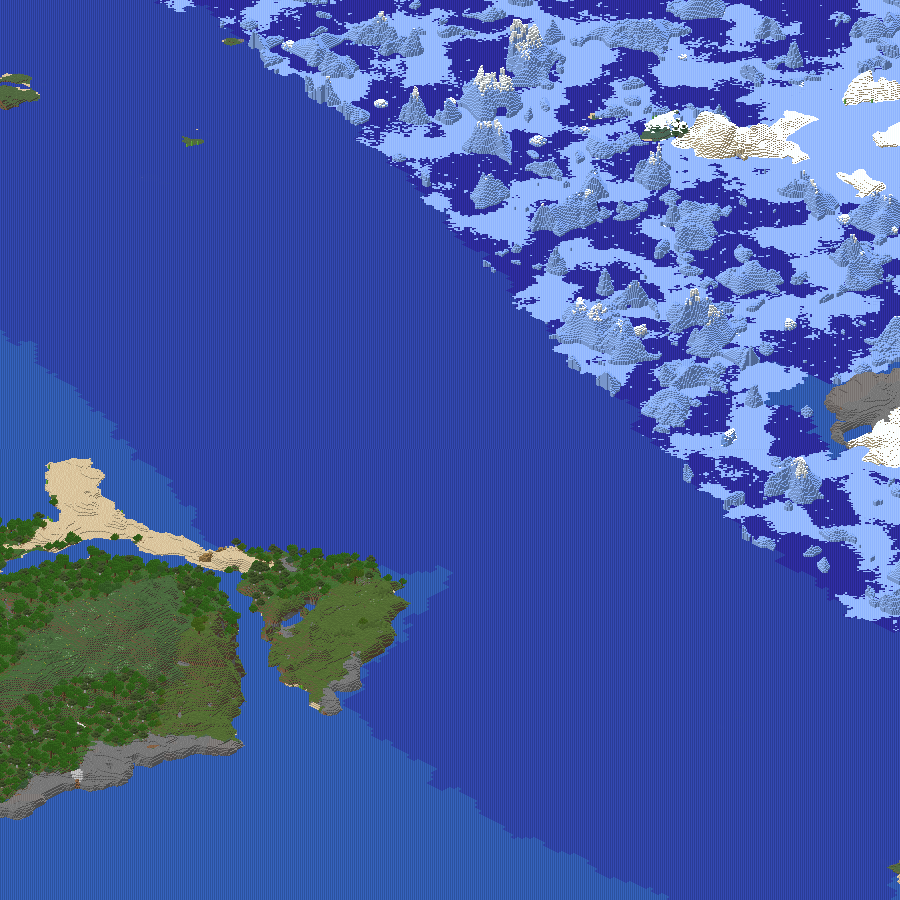
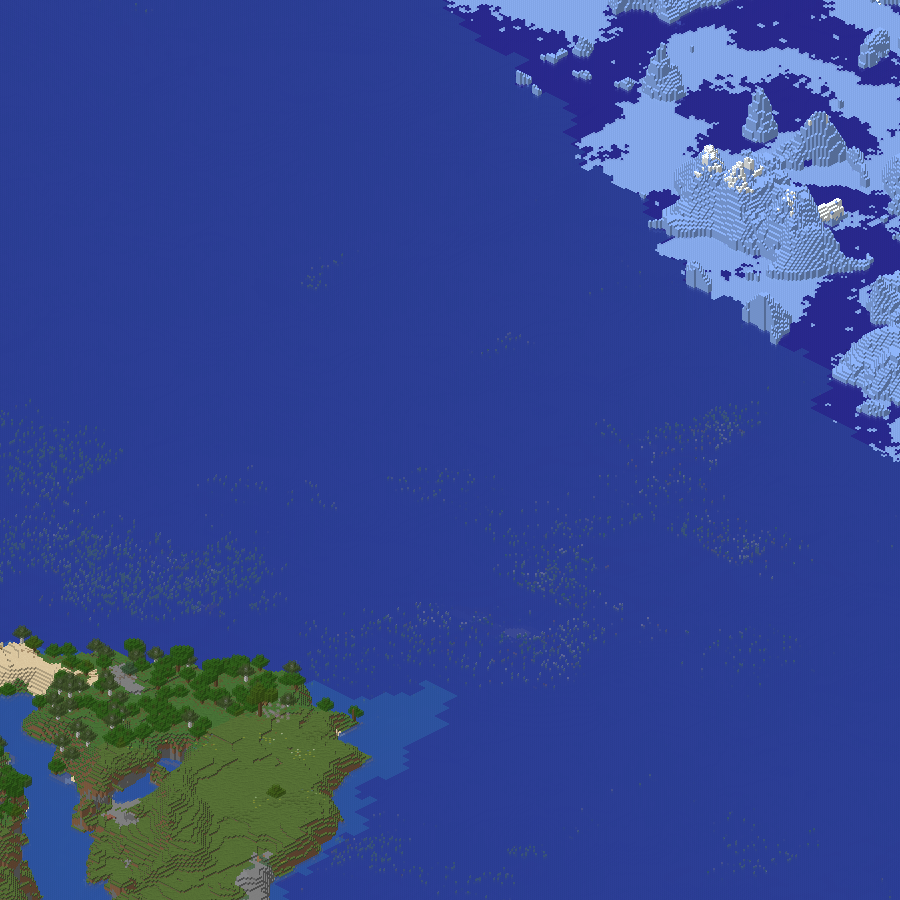
README und Bilder auf den Stand der Fixes
- Wasser endet bei 8/9, Tiefe entlang des Blickstrahls, Mischen ueber
  Fragmente je Pixel, Fuellregel und lineares Licht in der Textur,
  Varianten ueber nextInt wie der 26.2-Client.
- Native Stufen nur bei durch vier teilbarem scale, bei 32 also 16, 8
  und 4; ein Ausschnitt liest die ganze Elternflaeche. Der Export bricht
  ab, wenn scale oder maxZoom nicht zum map.json passen.
- Das Nachrender-Beispiel hat jetzt --data. Die Beispielausgaben
  stammten noch von scale 16 und aus der Zeit vor den nativen Stufen;
  sie sind mit dem Standard 32 neu gemessen, samt map.json-Beispiel und
  Scan, der Wasser nicht mehr als modelllos fuehrt.
- docs/map.png und docs/sprites.png neu gerendert. docs/map-wide.png
  zeigt jetzt scale 4 statt 2: bei 2 liegt jede zweite Blockreihe auf
  einem halben Pixel.

Die Kostenangabe der nativen Stufen ("ein Drittel") bleibt stehen; #9
misst nach und macht die Stufen optional.

diff --git a/README.md b/README.md
@@ -20,7 +20,7 @@ Sand, Stein, Erde — würfeln ihre Drehung aus der Position wie das Spiel.
 
 ![Karte](docs/map.png)
 
-900 mal 900 Pixel um (-64, 416), scale 16, 292 Chunks, 3,2 s einkernig —
+900 mal 900 Pixel um (-64, 416), scale 16, 292 Chunks, 2,1 s einkernig —
 dieselbe Stelle wie in Schritt 4, jetzt mit Wasser, Biomfarben und
 gewürfelten Drehungen.
 
@@ -139,12 +139,13 @@ cargo run --release --manifest-path renderer/Cargo.toml -- --world ./world --ass
 ```
 
 ```
-Render:     292 Chunks im Ausschnitt, 292 generiert, 258 Blockstates, 235 Sprites
-            900x900 px um (-64, 416) bei scale 16 in 2.1 s -> docs/map.png
+Render:     292 Chunks im Ausschnitt, 292 generiert, 258 Blockstates, 13226 Sprites
+            900x900 px bei (-4290, 958) und scale 16 in 2.1 s -> docs/map.png
 ```
 
 `--center` nennt die Blockspalte, die in der Bildmitte landet, `--scale` die
-Pixelbreite eines Blocks. Gesucht wird nur, was im Bild landen kann: der
+Pixelbreite eines Blocks. Die Ausgabe nennt die linke obere Bildecke in
+Pixeln. Gesucht wird nur, was im Bild landen kann: der
 sichtbare Bereich ist ein schmales diagonales Band in x und z, kein Rechteck.
 Wer stattdessen die Hüllbox nähme, läse für einen 1024er Ausschnitt rund das
 Sechzehnfache an Chunks.
@@ -156,11 +157,11 @@ cargo run --release --manifest-path renderer/Cargo.toml -- --world ./world --ass
 ```
 
 ```
-Vorlauf:    316223 Chunks in 10.7 s, 3110 Blockstates, 73920 Kacheln
-            3057 Sprites bei scale 16
-            82 Modelle ragen über ihren Block hinaus, Würfel {[0, 1, 0]}
-            200/73920 Kacheln
-            400/73920 Kacheln
+Vorlauf:    316223 Chunks in 8.5 s, 3110 Blockstates, 292836 Kacheln
+            100688 Sprites bei scale 32, davon 98189 Fassungen
+            18 Modelle ragen über ihren Block hinaus, Würfel {[0, 1, 0]}
+            200/292836 Kacheln
+            400/292836 Kacheln
 ```
 
 Danach stapelt der Lauf die gröberen Zoomstufen darüber und schreibt
@@ -170,8 +171,8 @@ Der Vorlauf liest jeden Chunk einmal und beantwortet zwei Fragen auf einmal:
 welche Blockstates vorkommen, und welche Kacheln überhaupt etwas zeigen. Erst
 danach steht die Sprite-Tabelle — und erst dann kann parallel gerendert
 werden, denn sonst müsste jeder Worker sie unter einer Sperre füllen. Die
-Chunks werden deshalb zweimal gelesen; der Vorlauf kostet 11 Sekunden für die
-ganze Welt.
+Chunks werden deshalb zweimal gelesen; der Vorlauf kostet für die ganze Welt
+6 bis 11 Sekunden.
 
 Gerendert wird mit Rayon über die Kacheln. Jeder Worker hält seinen eigenen
 Chunk- und Regionscache, geteilt wird nur die unveränderliche Sprite-Tabelle.
@@ -179,19 +180,23 @@ Chunk- und Regionscache, geteilt wird nur die unveränderliche Sprite-Tabelle.
 `--center` und `--size` schränken auf einen Ausschnitt ein:
 
 ```bash
-cargo run --release --manifest-path renderer/Cargo.toml -- --world ./world --assets ./vanilla-assets --assets ./assets --tiles ./tiles --center -64 416 --size 2048
+cargo run --release --manifest-path renderer/Cargo.toml -- --world ./world --assets ./vanilla-assets --assets ./assets --data ./vanilla-data --tiles ./tiles --center -64 416 --size 2048
 ```
 
 ```
-Vorlauf:    8192 Chunks in 0.4 s, 266 Blockstates, 72 Kacheln
-Kacheln:    72 geschrieben, 0 leer, 256x256 px, 24 Threads
-            9.4 MB in 1.7 s (44 Kacheln/s, 134 kB je Kachel)
-Zoom  8:     25 Kacheln
-Zoom  7:     9 Kacheln
-Zoom  6:     4 Kacheln
+Vorlauf:    6144 Chunks in 0.3 s, 213 Blockstates, 64 Kacheln
+            7125 Sprites bei scale 32, davon 6933 Fassungen
+            1 Modelle ragen über ihren Block hinaus, Würfel {[0, 1, 0]}
+            64/64 Kacheln
+Kacheln:    64 geschrieben, 0 leer, 256x256 px, 24 Threads
+            8.6 MB in 0.7 s (90 Kacheln/s, 137 kB je Kachel)
+Zoom  9:     20 Kacheln nativ bei scale 16, 2.7 MB in 0.7 s
+Zoom  8:     9 Kacheln nativ bei scale 8, 1.1 MB in 0.7 s
+Zoom  7:     4 Kacheln nativ bei scale 4, 0.5 MB in 1.6 s
+Zoom  6:     2 Kacheln
 ...
-Pyramide:   45 Kacheln, 3.1 MB in 0.0 s
-Karte:      Zoom 0..9, -4864/256 bis -2816/2560 px -> ./tiles/map.json
+Pyramide:   9 Kacheln, 0.2 MB in 0.0 s
+Karte:      Zoom 0..10, 64 Basiskacheln, -8704/1792 bis -6656/3840 px -> ./tiles/map.json
 ```
 
 Der Ausschnitt wird dabei auf ganze Kacheln aufgerundet, bevor der Vorlauf
@@ -208,10 +213,10 @@ zeigte die Karte weiter, was inzwischen abgerissen wurde.
 
 ### Zoomstufen
 
-Gerendert wird nur die feinste Stufe. Jede gröbere entsteht aus vier Kacheln
-der darunterliegenden, auf die halbe Kantenlänge gestaucht — die Welt wird
-dafür kein zweites Mal angefasst. Für den Ausschnitt oben kosten alle Stufen
-zusammen 3,1 MB gegenüber 9,4 MB für die Basis, also das erwartete Drittel.
+Gröbere Stufen entstehen aus vier Kacheln der darunterliegenden, auf die
+halbe Kantenlänge gestaucht — die Welt wird dafür kein zweites Mal
+angefasst. Ausgenommen sind die nativen Stufen direkt unter der Basis,
+siehe unten.
 
 ![Zoomstufen](docs/zoomstufen.png)
 
@@ -231,15 +236,26 @@ ja weiterhin da. Und `map.json` beschreibt den ganzen Baum, nicht den letzten
 Lauf. An einer unveränderten Welt ändert ein Nachrendern deshalb keine einzige
 Datei.
 
-Die gröberen Stufen werden nicht alle verkleinert. Solange ein Block
-noch zwei Pixel breit ist — bei scale 32 also vier Stufen lang, 16, 8, 4
-und 2 —, rendert der Renderer die Stufe aus der Welt, mit Sprites in
-dieser Grösse. Verkleinern mittelt Nachbarblöcke ineinander, und schon
-zwei Stufen unter der Basis wäre aus jeder Kante Brei; ein nativer Render
-hält den Umriss jedes Blocks scharf und mittelt stattdessen die Textur
-über den Block, was auf einer Karte niemand vermisst. Das kostet ein
-Drittel des Basisrenders obendrauf. Erst darunter, bei einem Pixel je
-Block und weniger, wird verkleinert.
+Dafür muss der Lauf zum Baum passen. Weichen `scale` oder `maxZoom` vom
+`map.json` im Zielverzeichnis ab, bricht der Export ab, bevor er einen
+Chunk liest. Sonst landeten die neuen Kacheln eine Stufe daneben, und
+`map.json` beschriebe danach nur noch den Ausschnitt.
+
+Die gröberen Stufen werden nicht alle verkleinert. Solange jeder Block
+auf ganzen Pixeln liegt, der scale der Stufe also durch vier teilbar ist
+— bei scale 32 drei Stufen lang, 16, 8 und 4 —, rendert der Renderer die
+Stufe aus der Welt, mit Sprites in dieser Grösse. Verkleinern mittelt
+Nachbarblöcke ineinander, und schon zwei Stufen unter der Basis wäre aus
+jeder Kante Brei; ein nativer Render hält den Umriss jedes Blocks scharf
+und mittelt stattdessen die Textur über den Block, was auf einer Karte
+niemand vermisst. Das kostet ein Drittel des Basisrenders obendrauf. Bei
+scale 2 läge jede zweite Blockreihe auf einem halben Pixel, und
+benachbarte Reihen überdeckten sich; ab dort wird verkleinert.
+
+Ein Ausschnitt mit `--size` braucht dafür mehr Welt als sich selbst: eine
+native Elternkachel zeigt auch, was neben dem Ausschnitt liegt. Der
+Export liest deshalb die Blockstates der ganzen Elternfläche, bevor er
+die Sprites baut.
 
 Gemittelt wird dabei in linearem Licht, nicht in sRGB-Werten: die sind
 gammakodiert, ihr Mittel ist zu dunkel, und jede Stufe verdunkelt weiter.
@@ -250,11 +266,11 @@ Halb Schwarz, halb Weiss ergibt so 188 statt 128.
 ```json
 {
   "tileSize": 256,
-  "scale": 16,
+  "scale": 32,
   "minZoom": 0,
-  "maxZoom": 9,
+  "maxZoom": 10,
   "tiles": "{z}/{x}/{y}.webp",
-  "bounds": [-4864, 256, -2816, 2560]
+  "bounds": [-8704, 1792, -6656, 3840]
 }
 ```
 
@@ -296,9 +312,12 @@ Flüssigkeiten haben kein Blockmodell — Minecraft baut ihre Geometrie im
 Code. Der Renderer tut dasselbe: `water`, `lava`, `bubble_column`, Seegras
 und Kelp sowie jede Blockstate mit `waterlogged=true` bekommen einen Würfel
 mit der Flüssigkeitstextur, fliessendes Wasser (`level` 1 bis 7) einen
-flacheren. Quellen und fallendes Wasser füllen den Block ganz; Minecraft
-lässt sie einen Pixel tiefer enden, doch ohne Nachbarschaftswissen bekäme
-sonst jede Schicht eines Ozeans eine Fuge.
+flacheren. Wie im Spiel endet eine Quelle bei 8/9 der Blockhöhe, knapp
+zwei Texturpixel unter der Kante, und die Oberseiten gefluteter oberer
+Platten, Treppen und Zaunpfosten bleiben trocken. Liegt dieselbe
+Flüssigkeit darüber, reicht der Würfel bis oben, sonst hätte jede Schicht
+eines Ozeans eine Fuge. Die Ecken gleicht der Renderer nicht an die
+Nachbarn an wie Minecraft, jede Oberfläche bleibt eben.
 
 ![Übersicht](docs/map-wide.png)
 
@@ -311,13 +330,18 @@ gleichem Wasser daneben und darüber. Sonst läge in jedem Becken Wasser
 schimmerte durch ein Raster. Ein Wasserblock mitten im Ozean hat danach
 keine Fläche mehr und kostet nichts.
 
-Die Oberfläche trägt dafür die Deckkraft aller Schichten darunter. Eine
+Die Oberfläche trägt dafür die Deckkraft aller Schichten dahinter. Eine
 Schicht der Wassertextur lässt 29 Prozent durch, zwei noch 9, vier noch
 unter 1: durch einen Block Wasser sieht man den Grund, durch vier nicht
-mehr. Der Renderer zählt je Oberflächenblock die Wasserblöcke darunter
-und nimmt die Fassung mit dem entsprechend hochgerechneten Alpha — ohne
-das sähe ein Ozean aus wie ein Meeresboden hinter Milchglas, mit
-sichtbarem Kies in jeder Tiefe. Im Spiel erledigt das der Unterwassernebel.
+mehr. Der Renderer zählt je Oberflächenblock die Wasserblöcke entlang
+des Blickstrahls, also schräg nach hinten unten auf der Diagonale
+(x-1, y-1, z-1), und nimmt die Fassung mit dem entsprechend
+hochgerechneten Alpha — ohne das sähe ein Ozean aus wie ein Meeresboden
+hinter Milchglas, mit sichtbarem Kies in jeder Tiefe. Im Spiel erledigt
+das der Unterwassernebel. Senkrecht gezählt verschwände, was knapp unter
+einer tiefen Oberfläche liegt, Kelp oder ein Wrack. Mit zählt nur reines
+Wasser: ein gefluteter Zaun oder Kelp ist etwas, das der Blickstrahl
+trifft, und bleibt durch die Schichten davor zu sehen.
 
 Gras und Laub funktionieren wie das Wasser: die Textur ist grau, das Biom
 liefert Temperatur und Niederschlag, und die Colormaps `grass.png` und
@@ -332,23 +356,31 @@ verdrahtet das im Code, und der Renderer tut es in
 `renderer/src/assets/colors.rs` — eine Tabelle mit rund zwanzig Einträgen.
 
 Durchsichtige Flächen mischen sich seit diesem Schritt auch innerhalb
-eines Sprites: die Flächen werden von hinten nach vorne gezeichnet, und
-ein durchscheinendes Texel legt sich über das, was schon da ist. Vorher
-gewann der Tiefenpuffer, und ein gefluteter Zaun war ein Wasserwürfel ohne
-Zaun.
+eines Sprites: jede Fläche legt je Pixel ein Fragment ab, und am Schluss
+wird je Pixel von hinten nach vorne gemischt. Ein durchscheinendes Texel
+liegt so immer über dem, was dahinter liegt, und eine Halmkante, die den
+Pixel nur zum Teil deckt, verdeckt die Fläche dahinter nicht. Vorher
+gewann ein Tiefenpuffer, und ein gefluteter Zaun war ein Wasserwürfel
+ohne Zaun.
 
 ### Keine Nähte
 
 Sprite-Kanten werden nicht geglättet. Die Geometrie wird nur im
-Pixelmittelpunkt geprüft, damit jeder Pixel genau einer Fläche gehört und
-Nachbarflächen nahtlos aneinanderstossen. Geglättete Kanten trügen
+Pixelmittelpunkt geprüft, damit an einer gemeinsamen Kante jeder Pixel
+genau einer der beiden Flächen gehört und Nachbarflächen nahtlos
+aneinanderstossen. Liegt ein Mittelpunkt genau auf der Kante, entscheidet
+die Füllregel der Grafikkarten: der Pixel gehört dem Dreieck, für das die
+Kante oben oder links liegt. Ohne sie nahmen beide Dreiecke einer Fläche
+die Pixel auf ihrer Diagonale an, und bei scale 2 bekam Wasser dort
+Alpha 233 statt 180. Geglättete Kanten trügen
 Teildeckung im Alpha, und beim Zusammensetzen der Sprites könnte niemand
 mehr unterscheiden, ob zwei Nachbarflächen dasselbe Pixel teilen oder ob
 eine durch die andere scheint: ein Wasserbecken bekam an jeder Blockgrenze
 eine hellere Naht, ein Boden aus deckenden Blöcken dunkle Linien — bis
 Schritt 8 hatte das Goldbild sie. Die Textur dagegen wird über den Pixel
 gemittelt, sonst fiele auf einer acht Pixel breiten Seitenfläche jeder
-zweite Texel weg.
+zweite Texel weg. Gemittelt wird wie in der Pyramide in linearem Licht
+und mit vormultipliziertem Alpha.
 
 ### scale 32
 
@@ -363,13 +395,13 @@ verschmerzen kann, gibt `--scale 16` an.
 
 34 Vanilla-Blockstates liegen als Liste vor — Sand, Stein, Erde, Grasblock
 in vier Drehungen. Welche ein Block bekommt, würfelt Minecraft aus seiner
-Position: `Mth.getSeed(x, y, z)` als Saat für `java.util.Random`, der erste
-`nextLong` gekürzt auf 32 Bit, davon der Betrag modulo Gesamtgewicht.
-Der Renderer rechnet genau das nach, geprüft gegen ein echtes
-`java.util.Random`. Damit sieht Sand aus wie im Spiel statt wie eine
-Tapete, und die Wahl hängt weder von der Kachel noch vom Thread ab. Alle
-Alternativen sind vorab gerastert; der Renderpfad rechnet je Block nur
-die Saat.
+Position: `Mth.getSeed(x, y, z)` wird die Saat, `nextInt` über das
+Gesamtgewicht zieht eine Zahl, und die Gewichte werden der Reihe nach
+abgezählt, bis sie verbraucht ist. Der Renderer rechnet genau das nach,
+geprüft an sieben Positionen gegen die Klassen des 26.2-Clients. Damit
+sieht Sand aus wie im Spiel statt wie eine Tapete, und die Wahl hängt
+weder von der Kachel noch vom Thread ab. Alle Alternativen sind vorab
+gerastert; der Renderpfad rechnet je Block nur die Saat.
 
 Ein Durchlauf über die gesamte Testwelt, der jeden Chunk dekodiert, jede
 vorkommende Blockstate auflöst und sie rastert:
@@ -379,19 +411,27 @@ cargo run --release --manifest-path renderer/Cargo.toml -- --world ./world --ass
 ```
 
 ```
-Scan:       316223 Chunks in 80.8 s (3911 Chunks/s), 0 Fehler
+Scan:       316223 Chunks in 60.1 s (5260 Chunks/s), 0 Fehler
             3110 verschiedene Blockstates
-Assets:     3110 Blockstates aufgelöst in 1.0 s, 0 ungelöst
-            10 Blöcke ohne Modell: air, cave_air, water, lava, bubble_column,
-            chest, decorated_pot, skeleton_skull, brown_wall_banner,
-            white_wall_banner
-Sprites:    3069 gerastert bei scale 16 in 0.1 s (25608/s)
-            2.3 MB Sprite-Pixel, größtes: minecraft:fire[...] (16x20)
-Texturen:   734 geladen, 0 fehlen
+Assets:     3110 Blockstates aufgelöst in 0.5 s, 0 ungelöst
+            7 Blöcke ohne Modell:
+            minecraft:air
+            minecraft:brown_wall_banner
+            minecraft:cave_air
+            minecraft:chest
+            minecraft:decorated_pot
+            minecraft:skeleton_skull
+            minecraft:white_wall_banner
+Sprites:    3076 gerastert bei scale 32 in 0.3 s (8960/s)
+            9.1 MB Sprite-Pixel, größtes: minecraft:brain_coral_fan[waterlogged=true] (46x31)
+            1 Blöcke sind aus dieser Blickrichtung unsichtbar: minecraft:fire
+
+Texturen:   738 geladen, 0 fehlen
 ```
 
-Blöcke ohne Modell zeichnet Minecraft über Entity-Modelle oder als
-Flüssigkeit — beides kennt V1 noch nicht.
+Truhen, Banner, Schädel und Töpfe zeichnet Minecraft über Entity-Modelle,
+die kennt der Renderer noch nicht. Wasser und Lava fehlen in der Liste,
+weil der Renderer sie wie das Spiel im Code baut.
 
 ## Frontend
 
